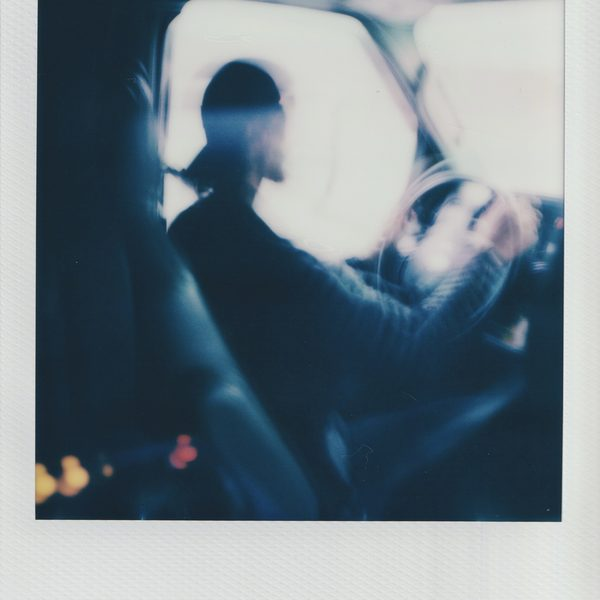
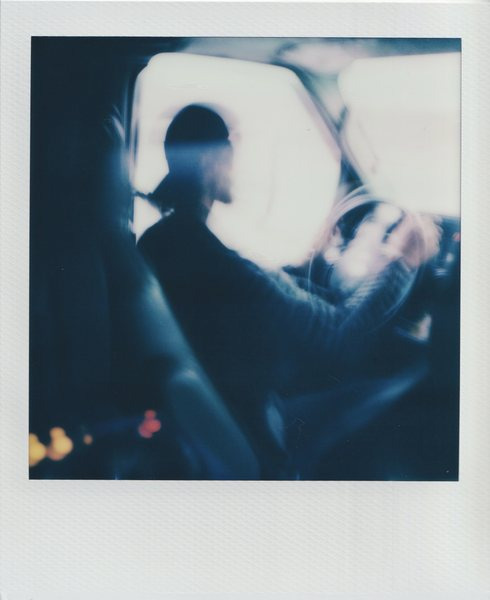
add three credits, six highlights, per-track roles; fix pack artwork
Artwork:
The pack cover is a polaroid at 2067x2529. Squaring it in an earlier
commit cut off the polaroid border, which is most of the image's
character. Restored uncropped at 490x600 and switched product art to
object-fit: contain inside a square box, so nothing is clipped and the
product grid still lines up.

New credits (cover art, titles and Apple links resolved by the builder):
- ITCHTOPAY        dim mak      mixing & mastering
- Out in the Sun   putyouon     coproduction, mixing & mastering
- Calm Down        independent  coproduction, mixing & mastering

ITCHTOPAY is not on Apple Music, so that card is Spotify-only and its
Apple tab is omitted - the intended fallback rather than a bad guess.

Credits are now per track instead of a hardcoded line, defaulting to
"mixing & mastering".

Highlights are the three new tracks plus sweat, watch me and used to be.
Body on Mine moves down into more credits; it is not deleted.

Six cards needed the grid to hold at any width, so it is pinned to three
columns above 1000px and left to auto-fit below. Players are pushed to
the bottom of each card and the title row wraps, so cards stay equal
height even when a title runs to two lines or a track has no Apple tab.
Verified at 390 / 768 / 1024 / 1440: 1, 2, 3 and 3 columns, no orphan
rows, identical card heights at every width.

Claude-Session: https://claude.ai/code/session_013s7AHFeuf4sse1iWUy5Nw1

Changed region(s): [[0.0612, 0.0, 0.949, 0.51], [0.0306, 0.51, 0.949, 0.87], [0.3061, 0.45, 0.3367, 0.48]]

diff --git a/mix.html b/mix.html
@@ -179,7 +179,10 @@
         }
 
         /* Track cards */
-        .trackgrid { display: grid; grid-template-columns: repeat(auto-fit, minmax(290px, 1fr)); gap: 18px; }
+        .trackgrid { display: grid; grid-template-columns: repeat(auto-fit, minmax(280px, 1fr)); gap: 18px; align-items: stretch; }
+        /* Cap at 3 up so a 6-card highlights row never breaks into an
+           orphan. Below that auto-fit handles 2-up and 1-up. */
+        @media (min-width: 1000px) { .trackgrid { grid-template-columns: repeat(3, 1fr); } }
         .track-card {
             background: rgba(255, 255, 255, 0.09);
             border: 1px solid rgba(255, 255, 255, 0.22);
@@ -195,6 +198,9 @@
         .tname { font-size: 18px; }
         .tlabel { font-size: 12px; color: rgba(255,255,255,0.95); background: rgba(255,255,255,0.18); border: 1px solid rgba(255,255,255,0.3); border-radius: 100px; padding: 3px 10px; white-space: nowrap; }
         .tcred { font-size: 12.5px; color: rgba(255, 255, 255, 0.7); }
+        .track-card .players { margin-top: auto; }
+        .tmeta { flex-wrap: wrap; }
+        .tname { flex: 1 1 auto; min-width: 0; }
         .ptabs { display: flex; gap: 6px; margin-bottom: 8px; }
         .ptab {
             flex: 1; background: rgba(255,255,255,0.12); border: 1px solid rgba(255,255,255,0.22);
@@ -314,12 +320,58 @@
             <div class="trackgrid">
 <!-- CREDITS:FEATURED -->
         <div class="track-card featured">
+          <img class="cover" loading="lazy" src="/covers/itchtopay.jpg" alt="itchtopay" width="600" height="600" />
+          <div class="tmeta">
+            <div class="tname">itchtopay</div>
+            <div class="tlabel">dim mak</div>
+          </div>
+          <div class="tcred">mixing &amp; mastering</div>
+          <div class="players">
+            <div class="ptabs">
+              <button type="button" class="ptab active" data-p="sp">spotify</button>
+            </div>
+            <iframe class="pframe sp active" loading="lazy" src="https://open.spotify.com/embed/track/102v6pIT5fGhbbgbFylGlI?utm_source=generator&amp;theme=0&amp;view=minimal" allow="clipboard-write; encrypted-media; fullscreen; picture-in-picture"></iframe>
+          </div>
+        </div>
+        <div class="track-card featured">
+          <img class="cover" loading="lazy" src="/covers/out-in-the-sun.jpg" alt="out in the sun" width="600" height="600" />
+          <div class="tmeta">
+            <div class="tname">out in the sun</div>
+            <div class="tlabel">putyouon</div>
+          </div>
+          <div class="tcred">coproduction, mixing &amp; mastering</div>
+          <div class="players">
+            <div class="ptabs">
+              <button type="button" class="ptab active" data-p="sp">spotify</button>
+              <button type="button" class="ptab" data-p="ap">apple music</button>
+            </div>
+            <iframe class="pframe sp active" loading="lazy" src="https://open.spotify.com/embed/track/2IBM95krbfoEU4pKtHJJtL?utm_source=generator&amp;theme=0&amp;view=minimal" allow="clipboard-write; encrypted-media; fullscreen; picture-in-picture"></iframe>
+            <iframe class="pframe ap" loading="lazy" data-src="https://embed.music.apple.com/us/album/out-in-the-sun-single/1607609431?i=1607609435&amp;app=music" allow="encrypted-media *; fullscreen *;" sandbox="allow-forms allow-popups allow-same-origin allow-scripts allow-storage-access-by-user-activation allow-top-navigation-by-user-activation"></iframe>
+          </div>
+        </div>
+        <div class="track-card featured">
+          <img class="cover" loading="lazy" src="/covers/calm-down.jpg" alt="calm down" width="600" height="600" />
+          <div class="tmeta">
+            <div class="tname">calm down</div>
+            <div class="tlabel">independent</div>
+          </div>
+          <div class="tcred">coproduction, mixing &amp; mastering</div>
+          <div class="players">
+            <div class="ptabs">
+              <button type="button" class="ptab active" data-p="sp">spotify</button>
+              <button type="button" class="ptab" data-p="ap">apple music</button>
+            </div>
+            <iframe class="pframe sp active" loading="lazy" src="https://open.spotify.com/embed/track/15P5svfgx7wZ3ADxHDW379?utm_source=generator&amp;theme=0&amp;view=minimal" allow="clipboard-write; encrypted-media; fullscreen; picture-in-picture"></iframe>
+            <iframe class="pframe ap" loading="lazy" data-src="https://embed.music.apple.com/us/album/calm-down-single/1640501237?i=1640501238&amp;app=music" allow="encrypted-media *; fullscreen *;" sandbox="allow-forms allow-popups allow-same-origin allow-scripts allow-storage-access-by-user-activation allow-top-navigation-by-user-activation"></iframe>
+          </div>
+        </div>
+        <div class="track-card featured">
           <img class="cover" loading="lazy" src="/covers/sweat.jpg" alt="sweat" width="600" height="600" />
           <div class="tmeta">
             <div class="tname">sweat</div>
             <div class="tlabel">mau5trap</div>
           </div>
-          <div class="tcred">mixing &amp; mastering engineer</div>
+          <div class="tcred">mixing &amp; mastering</div>
           <div class="players">
             <div class="ptabs">
               <button type="button" class="ptab active" data-p="sp">spotify</button>
@@ -335,7 +387,7 @@
             <div class="tname">watch me</div>
             <div class="tlabel">sable valley</div>
           </div>
-          <div class="tcred">mixing &amp; mastering engineer</div>
+          <div class="tcred">mixing &amp; mastering</div>
           <div class="players">
             <div class="ptabs">
               <button type="button" class="ptab active" data-p="sp">spotify</button>
@@ -346,19 +398,19 @@
           </div>
         </div>
         <div class="track-card featured">
-          <img class="cover" loading="lazy" src="/covers/body-on-mine.jpg" alt="body on mine" width="600" height="600" />
+          <img class="cover" loading="lazy" src="/covers/used-to-be.jpg" alt="used to be" width="600" height="600" />
           <div class="tmeta">
-            <div class="tname">body on mine</div>
-            <div class="tlabel">hexagon</div>
+            <div class="tname">used to be</div>
+            <div class="tlabel">insomniac</div>
           </div>
-          <div class="tcred">mixing &amp; mastering engineer</div>
+          <div class="tcred">mixing &amp; mastering</div>
           <div class="players">
             <div class="ptabs">
               <button type="button" class="ptab active" data-p="sp">spotify</button>
               <button type="button" class="ptab" data-p="ap">apple music</button>
             </div>
-            <iframe class="pframe sp active" loading="lazy" src="https://open.spotify.com/embed/track/2lsHvYMw4lqSjWCwJhuuKE?utm_source=generator&amp;theme=0&amp;view=minimal" allow="clipboard-write; encrypted-media; fullscreen; picture-in-picture"></iframe>
-            <iframe class="pframe ap" loading="lazy" data-src="https://embed.music.apple.com/us/album/body-on-mine/1840160745?i=1840160746&amp;app=music" allow="encrypted-media *; fullscreen *;" sandbox="allow-forms allow-popups allow-same-origin allow-scripts allow-storage-access-by-user-activation allow-top-navigation-by-user-activation"></iframe>
+            <iframe class="pframe sp active" loading="lazy" src="https://open.spotify.com/embed/track/4HbAHIdZncpoOxLJninXwO?utm_source=generator&amp;theme=0&amp;view=minimal" allow="clipboard-write; encrypted-media; fullscreen; picture-in-picture"></iframe>
+            <iframe class="pframe ap" loading="lazy" data-src="https://embed.music.apple.com/us/album/used-to-be/1683441299?i=1683441301&amp;app=music" allow="encrypted-media *; fullscreen *;" sandbox="allow-forms allow-popups allow-same-origin allow-scripts allow-storage-access-by-user-activation allow-top-navigation-by-user-activation"></iframe>
           </div>
         </div>
 <!-- /CREDITS:FEATURED -->
@@ -474,19 +526,19 @@
             <div class="trackgrid">
 <!-- CREDITS:REST -->
         <div class="track-card">
-          <img class="cover" loading="lazy" src="/covers/used-to-be.jpg" alt="used to be" width="600" height="600" />
+          <img class="cover" loading="lazy" src="/covers/body-on-mine.jpg" alt="body on mine" width="600" height="600" />
           <div class="tmeta">
-            <div class="tname">used to be</div>
-            <div class="tlabel">insomniac</div>
+            <div class="tname">body on mine</div>
+            <div class="tlabel">hexagon</div>
           </div>
-          <div class="tcred">mixing &amp; mastering engineer</div>
+          <div class="tcred">mixing &amp; mastering</div>
           <div class="players">
             <div class="ptabs">
               <button type="button" class="ptab active" data-p="sp">spotify</button>
               <button type="button" class="ptab" data-p="ap">apple music</button>
             </div>
-            <iframe class="pframe sp active" loading="lazy" src="https://open.spotify.com/embed/track/4HbAHIdZncpoOxLJninXwO?utm_source=generator&amp;theme=0&amp;view=minimal" allow="clipboard-write; encrypted-media; fullscreen; picture-in-picture"></iframe>
-            <iframe class="pframe ap" loading="lazy" data-src="https://embed.music.apple.com/us/album/used-to-be/1683441299?i=1683441301&amp;app=music" allow="encrypted-media *; fullscreen *;" sandbox="allow-forms allow-popups allow-same-origin allow-scripts allow-storage-access-by-user-activation allow-top-navigation-by-user-activation"></iframe>
+            <iframe class="pframe sp active" loading="lazy" src="https://open.spotify.com/embed/track/2lsHvYMw4lqSjWCwJhuuKE?utm_source=generator&amp;theme=0&amp;view=minimal" allow="clipboard-write; encrypted-media; fullscreen; picture-in-picture"></iframe>
+            <iframe class="pframe ap" loading="lazy" data-src="https://embed.music.apple.com/us/album/body-on-mine/1840160745?i=1840160746&amp;app=music" allow="encrypted-media *; fullscreen *;" sandbox="allow-forms allow-popups allow-same-origin allow-scripts allow-storage-access-by-user-activation allow-top-navigation-by-user-activation"></iframe>
           </div>
         </div>
         <div class="track-card">
@@ -495,7 +547,7 @@
             <div class="tname">respawn</div>
             <div class="tlabel">insomniac</div>
           </div>
-          <div class="tcred">mixing &amp; mastering engineer</div>
+          <div class="tcred">mixing &amp; mastering</div>
           <div class="players">
             <div class="ptabs">
               <button type="button" class="ptab active" data-p="sp">spotify</button>
@@ -511,7 +563,7 @@
             <div class="tname">younger me</div>
             <div class="tlabel">independent</div>
           </div>
-          <div class="tcred">mixing &amp; mastering engineer</div>
+          <div class="tcred">mixing &amp; mastering</div>
           <div class="players">
             <div class="ptabs">
               <button type="button" class="ptab active" data-p="sp">spotify</button>
@@ -527,7 +579,7 @@
             <div class="tname">you got that</div>
             <div class="tlabel">independent</div>
           </div>
-          <div class="tcred">mixing &amp; mastering engineer</div>
+          <div class="tcred">mixing &amp; mastering</div>
           <div class="players">
             <div class="ptabs">
               <button type="button" class="ptab active" data-p="sp">spotify</button>
@@ -543,7 +595,7 @@
             <div class="tname">small talk</div>
             <div class="tlabel">independent</div>
           </div>
-          <div class="tcred">mixing &amp; mastering engineer</div>
+          <div class="tcred">mixing &amp; mastering</div>
           <div class="players">
             <div class="ptabs">
               <button type="button" class="ptab active" data-p="sp">spotify</button>
@@ -559,7 +611,7 @@
             <div class="tname">huant</div>
             <div class="tlabel">independent</div>
           </div>
-          <div class="tcred">mixing &amp; mastering engineer</div>
+          <div class="tcred">mixing &amp; mastering</div>
           <div class="players">
             <div class="ptabs">
               <button type="button" class="ptab active" data-p="sp">spotify</button>
@@ -575,7 +627,7 @@
             <div class="tname">too easy</div>
             <div class="tlabel">independent</div>
           </div>
-          <div class="tcred">mixing &amp; mastering engineer</div>
+          <div class="tcred">mixing &amp; mastering</div>
           <div class="players">
             <div class="ptabs">
               <button type="button" class="ptab active" data-p="sp">spotify</button>
@@ -591,7 +643,7 @@
             <div class="tname">dreamgirl ep</div>
             <div class="tlabel">independent</div>
           </div>
-          <div class="tcred">mixing &amp; mastering engineer</div>
+          <div class="tcred">mixing &amp; mastering</div>
           <div class="players">
             <div class="ptabs">
               <button type="button" class="ptab active" data-p="sp">spotify</button>

diff --git a/store.html b/store.html
@@ -85,9 +85,10 @@
 
         .products { display: grid; grid-template-columns: repeat(auto-fit, minmax(300px, 1fr)); gap: 22px; align-items: start; }
         .product { padding: 22px; display: flex; flex-direction: column; gap: 14px; }
-        .product .art { width: 100%; height: auto; aspect-ratio: 1 / 1; object-fit: cover; border-radius: 14px; display: block; background: rgba(255,255,255,0.1); }
-        .prow { display: flex; align-items: baseline; justify-content: space-between; gap: 12px; }
-        .pttl { font-size: 22px; letter-spacing: -0.3px; }
+        .product .art { width: 100%; height: auto; aspect-ratio: 1 / 1; object-fit: contain; border-radius: 14px; display: block; }
+        .prow { display: flex; align-items: baseline; justify-content: space-between; gap: 8px 12px; flex-wrap: wrap; }
+        .pttl { flex: 1 1 auto; min-width: 0; }
+        .pttl { font-size: 22px; letter-spacing: -0.3px; line-height: 1.25; }
         .pprice { font-size: 22px; font-weight: 500; }
         .pdesc { font-size: 15px; color: rgba(255,255,255,0.85); line-height: 1.5; }
         .btn {
@@ -157,7 +158,7 @@
             <div class="products">
 
                 <div class="card product">
-                    <img class="art" src="/human-voice-cover.jpg" alt="human voice vol. 1" width="600" height="600" />
+                    <img class="art" src="/human-voice-cover.jpg" alt="human voice vol. 1" />
                     <div class="prow">
                         <div class="pttl">human voice (vol. 1)</div>
                         <div class="pprice">$10</div>

diff --git a/tools/build_credits.py b/tools/build_credits.py
@@ -135,7 +135,7 @@ def card(c):
             <div class="tname">{esc(c['name'])}</div>
             <div class="tlabel">{esc(c['label'])}</div>
           </div>
-          <div class="tcred">mixing &amp; mastering engineer</div>
+          <div class="tcred">{esc(c.get("credits", "mixing & mastering"))}</div>
           <div class="players">
             <div class="ptabs">{tabs}
             </div>
@@ -165,6 +165,7 @@ def main():
             changed = True
 
         c.setdefault("label", "independent")
+        c.setdefault("credits", "mixing & mastering")
 
         cover = os.path.join(COVERS, f"{c['slug']}.jpg")
         if not os.path.exists(cover):
